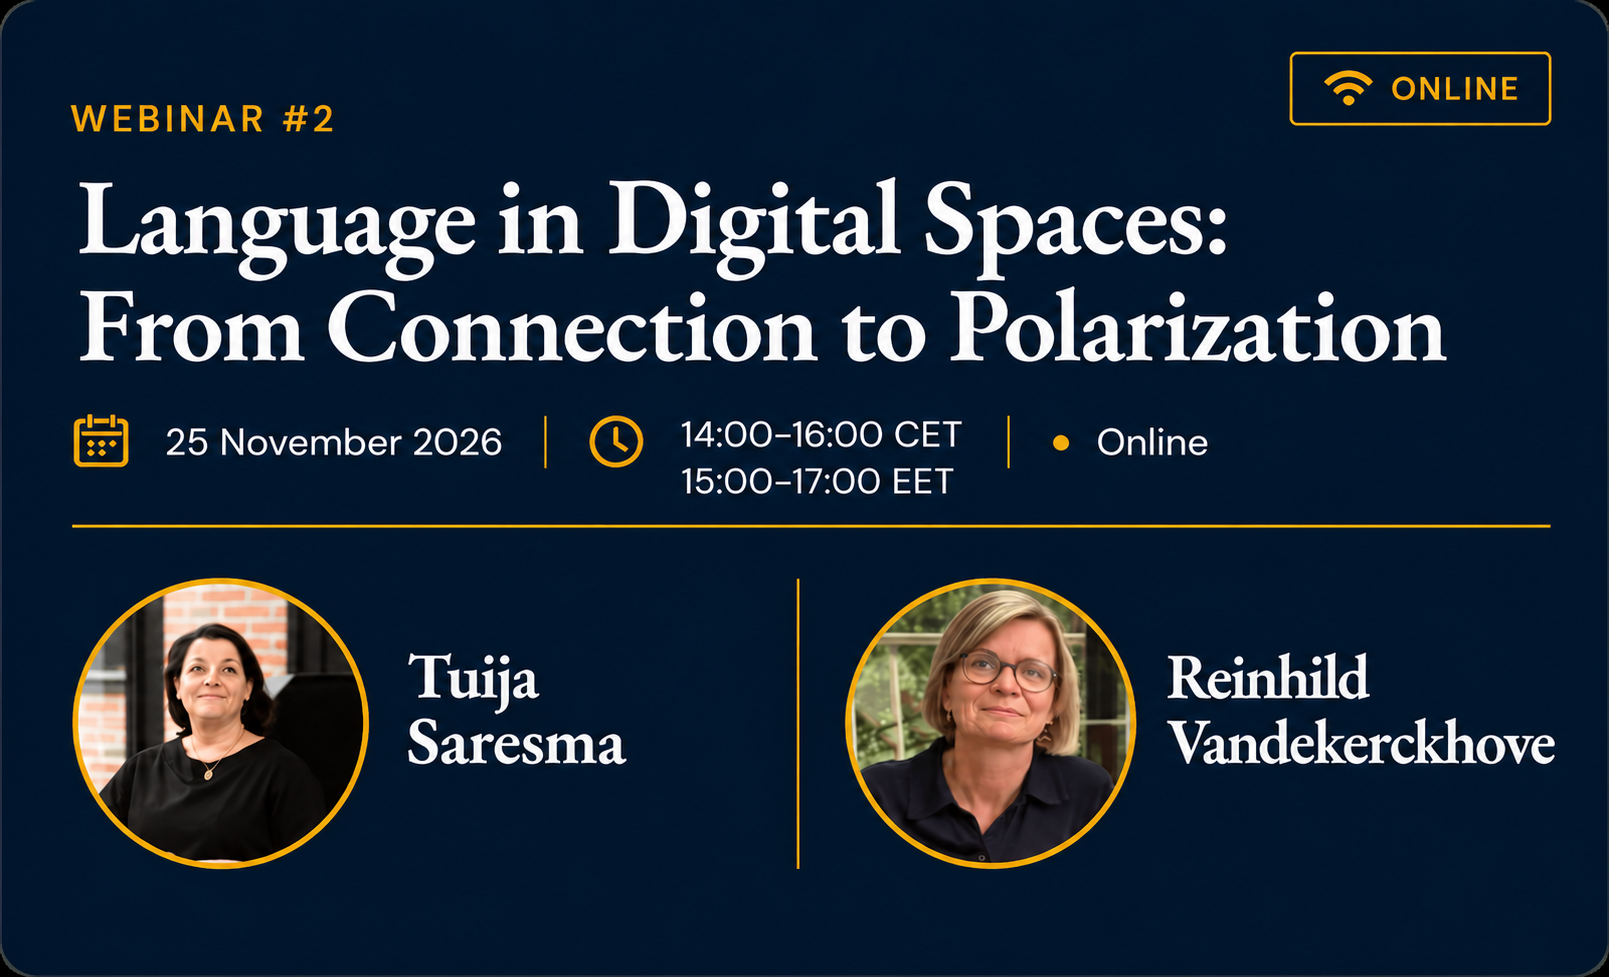
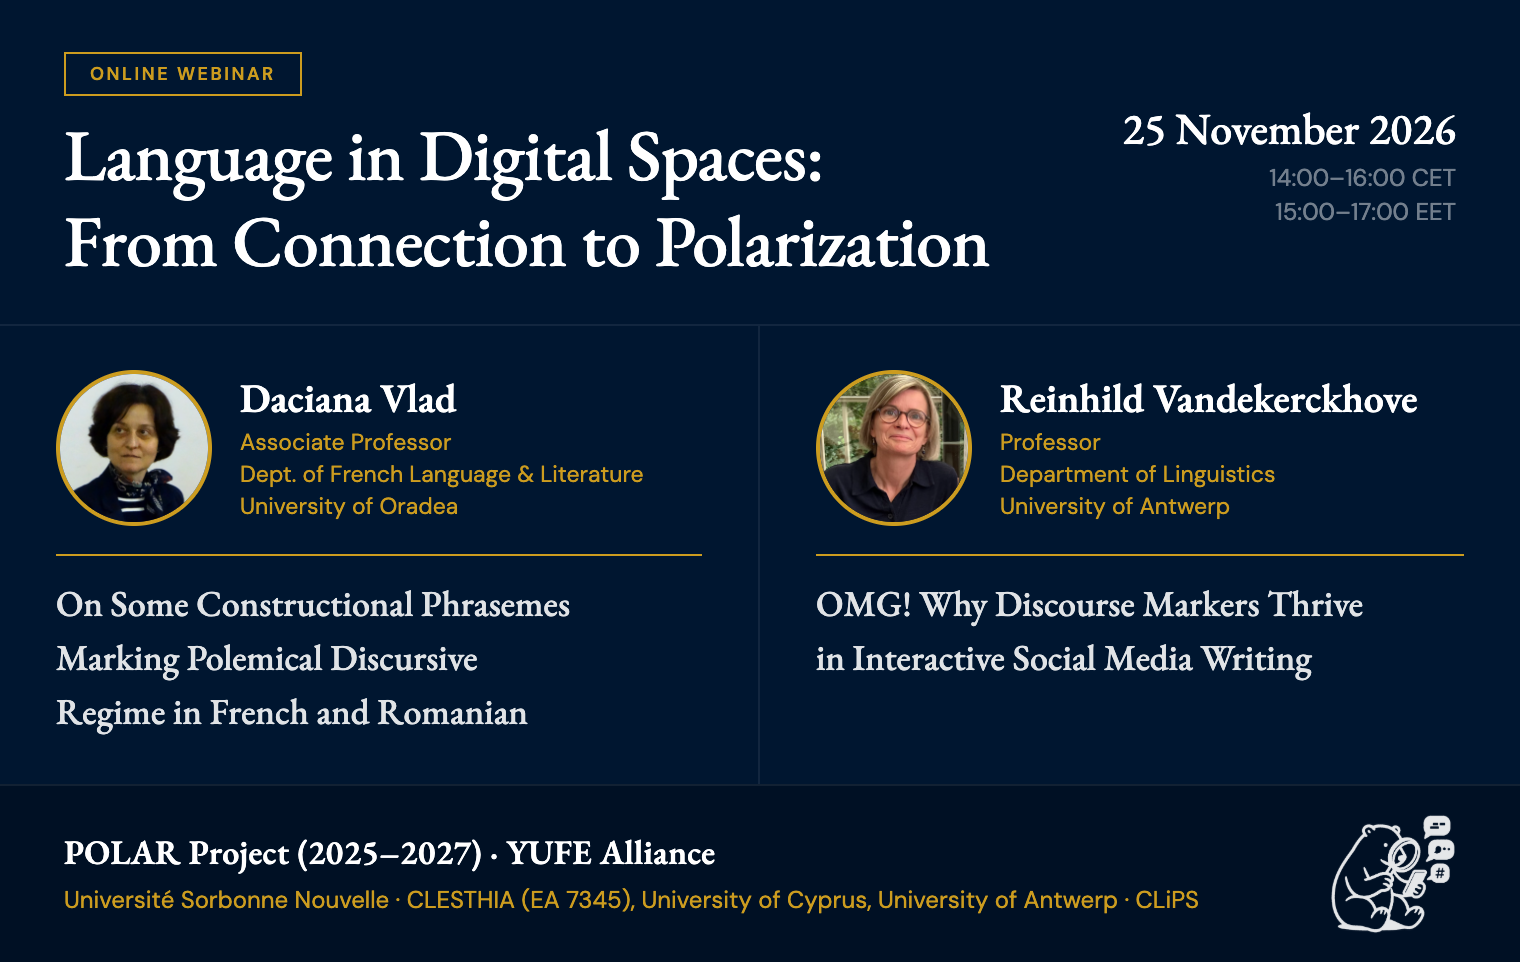
feat(events): replace Tuija Saresma with Daciana Vlad in Webinar №2

diff --git a/content/events/webinar-november2026/index.md b/content/events/webinar-november2026/index.md
@@ -11,7 +11,7 @@ series_label: "POLAR Webinar · №2"
 series_sub: "2nd POLAR Online Webinar — Seminar Series"
 list_title: "POLAR Seminar №2 : Language in Digital Spaces"
 summary: |
-  **Tuija Saresma** (University of Eastern Finland) — *"Hate Speech and Polarization as a Threat to Academic Freedom"*
+  **Daciana Vlad** (University of Oradea) — *"On Some Constructional Phrasemes Marking Polemical Discursive Regime in French and Romanian"*
 
   **Reinhild Vandekerckhove** (University of Antwerp) — *"OMG! Why Discourse Markers Thrive in Interactive Social Media Writing"*
 hideMeta: true
@@ -23,11 +23,11 @@ cover:
 
 <p class="event-section-label">Programme</p>
 
-{{< presentation name="Tuija Saresma" affil="Professor, Cultural Studies · University of Eastern Finland" time="14:00 – 15:00 CET" photo="tuija-saresma.jpg" photocredit="Niko Jouhkimainen" >}}
+{{< presentation name="Daciana Vlad" affil="Associate Professor, Dept. of French Language & Literature · University of Oradea" time="14:00 – 15:00 CET" photo="daciana-vlad.jpg" >}}
 
-Hate Speech and Polarization as a Threat to Academic Freedom
+On Some Constructional Phrasemes Marking Polemical Discursive Regime in French and Romanian
 
-Hate speech and increasing societal polarization pose growing challenges to academic freedom. This presentation examines how online harassment and attacks against researchers affect academic work, public engagement, and the communication of research findings. Drawing on recent research, the talk explores the consequences of these developments for scholars, universities, and democratic public debate.
+We will describe the two manifestations of the polemical phenomenon: the discursive regime (*Fr.* "le polémique"), a transgeneric discursive phenomenon that emerges in monologal discourse across various discursive genres, and the interactional regime (*Fr.* "la polémique"), a dialogal manifestation of the polemical phenomenon which represents one specific form of conflictual interaction, amongst others. To illustrate the marking of the polemical discursive regime, will be presented some constructional phrasemes in French and Romanian of the type: *Fr.* Tu plaisantes / rigoles…?; Qu'est-ce que tu (me) racontes / chantes (là)?!; Cesse ton baratin / ton charabia…; *Rom.* Îți arde de glume / ironii?... 'Is this some kind of joke / irony?'; Ce tot îndrugi / vorbești...? 'What are you talking / blabbering about?'; Lasă vorbăria / poveștile 'Cut the chatter / crap'. We will demonstrate that they combine lexico-syntactic patterns, of varying degrees of productivity, with a specific discursive function, namely the expression of disagreement in interaction. Drawing on comparable corpora from the TenTen family, available on Sketch Engine, we aim to propose a model of these polemical constructional phrasemes taking into account different levels of analysis: syntactic, semantic, pragmatic and interactional. The productivity of these constructions will be also examined. The contrastive component of this research aims to identify conventionalised phraseological invariants of polemics, as well as divergences in the lexicalisation of polemical discursive moves in the two languages under consideration.
 
 {{< /presentation >}}
 
